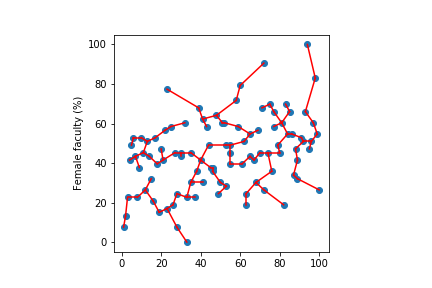
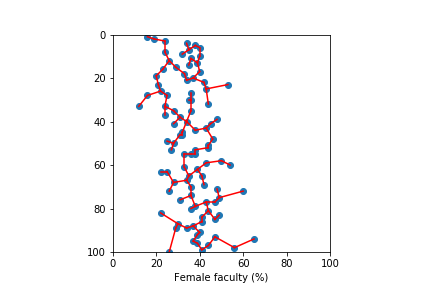
modified mst plots

diff --git a/SDA_UniRank_Scagnostics.py b/SDA_UniRank_Scagnostics.py
@@ -59,7 +59,7 @@ pairs = sns.pairplot(df_clean, diag_kind="kde", markers="+",plot_kws=dict(s=50, 
 # Found Code on:
 # http://peekaboo-vision.blogspot.com/2012/02/simplistic-minimum-spanning-tree-in.html
 # Author: Andreas Mueller
-# Slightly Modified for this Project by Peter and Lars
+# Modified for this Project by Lars
 
 def minimum_spanning_tree(X, copy_X=True):
     """X are edge weights of fully connected graph"""
@@ -94,6 +94,18 @@ def minimum_spanning_tree(X, copy_X=True):
 
    
 def MST_plot(P,plot_path,indep_var):
+    # Normalise Independent Variable between 0 and 100 if not rank or percentage
+    if 'rank' in indep_var:
+        print(indep_var)
+    elif '%' in indep_var:
+        print(indep_var)
+    else:
+        X_min = np.amin(P[:,0])
+        X_max = np.amax(P[:,0])
+        P[:,0] = (P[:,0] - X_min) / (X_max - X_min) * 100
+        indep_var = 'normalised ' + indep_var
+        print(indep_var)
+    
     X = squareform(pdist(P))
     edge_list = minimum_spanning_tree(X)
     
@@ -102,9 +114,11 @@ def MST_plot(P,plot_path,indep_var):
         i, j = edge
         plt.plot([P[i, 0], P[j, 0]], [P[i, 1], P[j, 1]], c='r')
     
-    plt.ylabel(indep_var)
+    plt.xlabel(indep_var)
     ax = plt.gca()
     ax.set_aspect('equal')
+    ax.set_xlim([0, 100])
+    ax.set_ylim([0, 100])
     
     # filepath for plot image
     figure_path = plot_path + indep_var.replace("/", "-") + '.png'
@@ -121,14 +135,9 @@ nr_col = size[1]           # nr of columns
 for c in range (1,nr_col):
     # Col Name
     indep_var = df_clean.columns[c]
-    
-    # Normalise Idnependent Variable between 0 and 100
-    df_clean[indep_var] = (df_clean[indep_var] - df_clean[indep_var].min()) / \
-                          (df_clean[indep_var].max() - df_clean[indep_var].min()) \
-                          * 100
-    
+      
     # Prepare Dependendt and Independent Variable in 2 Column Vector
-    M = np.array(df_clean[[year,indep_var]])
+    M = np.array(df_clean[[indep_var,year]])
 
     # Run MST Plot
     MST_plot(M,plot_path,indep_var)
@@ -175,6 +184,12 @@ c_table.savefig(path)
 #        x2 = M[q,1]
 #        y2 = M[q,0]
 #        D[p,q] = np.sqrt(np.square(x1 - x2) + np.square(y1 - y2))
+#
+#
+## Normalise Idnependent Variable between 0 and 100
+#df_clean[indep_var] = (df_clean[indep_var] - df_clean[indep_var].min()) / \
+#                      (df_clean[indep_var].max() - df_clean[indep_var].min()) \
+#                      * 100
 
 
 
